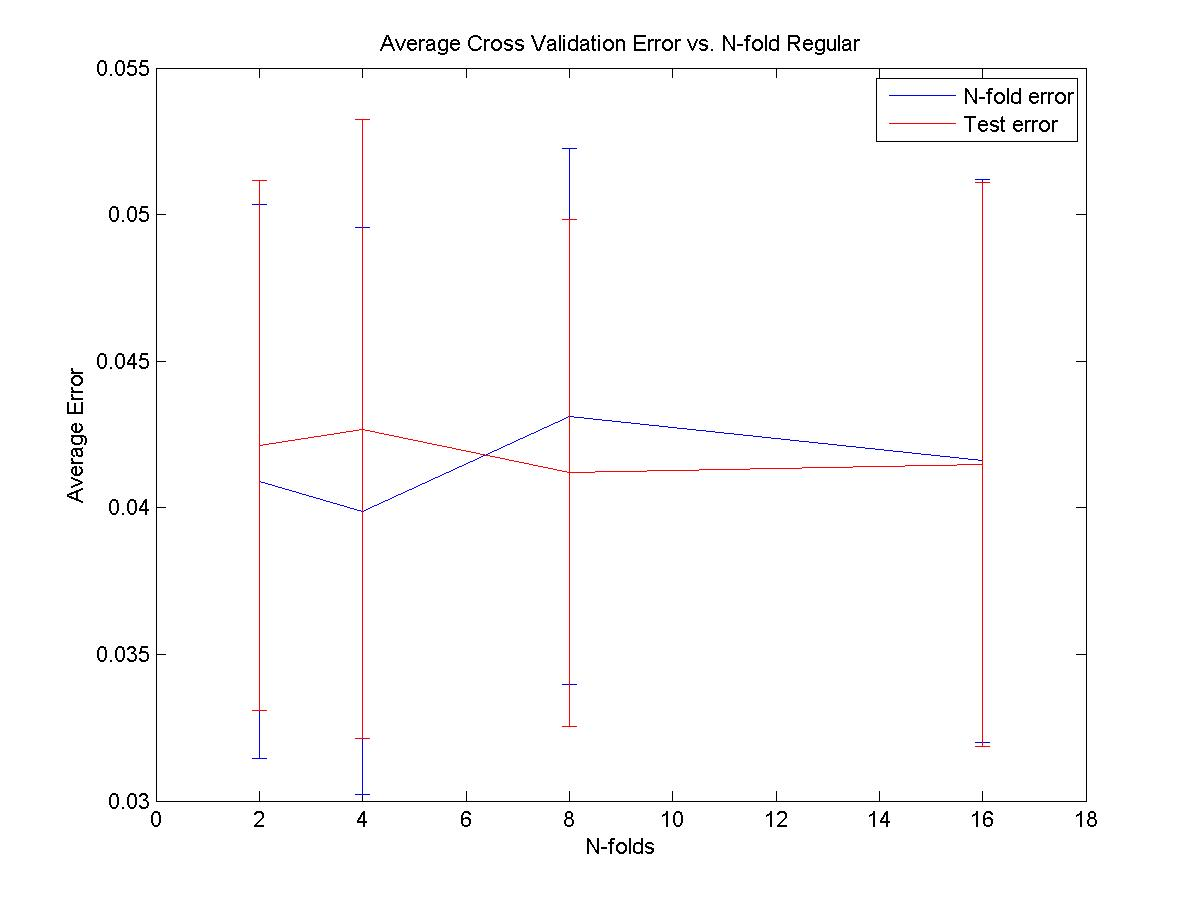
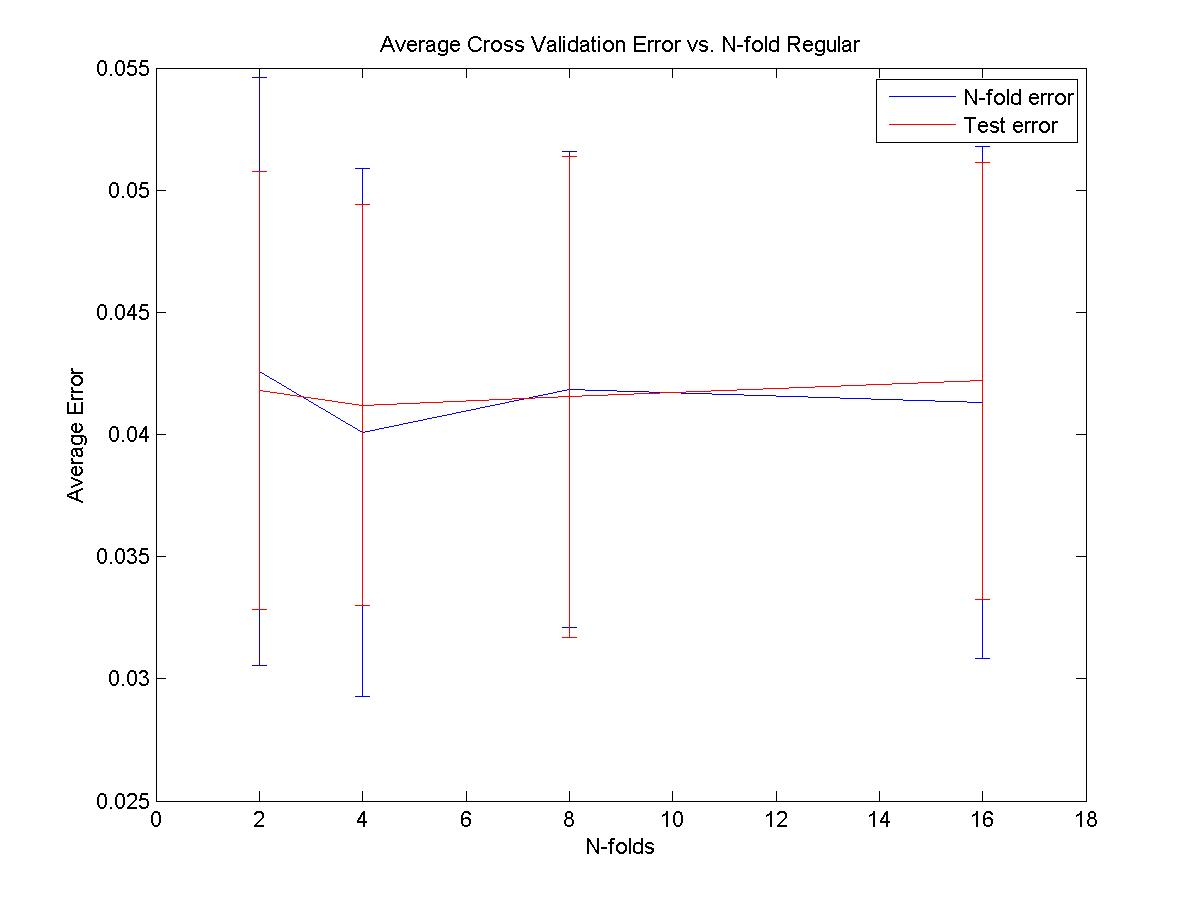
Finished 2

diff --git a/code/generate_knn_plots.m b/code/generate_knn_plots.m
@@ -6,78 +6,83 @@
 load('/data/breast-cancer-data-fixed.mat');
 
 %% 2.1
-% answers{1} = 'This is where your answer to 2.1 should go. Just as one long string in a cell array';
-% distFunc='l2';
-% xdata = X;
-% for z = 1:2
-%     for j = 1:4
-%         for i = 1:100
-%             [m,n] = size(xdata);
-%             order = randperm(m);
-%             ordertrain = order <401;
-%             ordertest = order >400;
-%             number = [1:m];
-% 
-%             vtest = number.*ordertest;
-%             vtest = vtest(vtest~=0);
-%             test = xdata(vtest,:);
-%             Ytest = Y(vtest,:);
-% 
-%             vtrain = number.*ordertrain;
-%             vtrain = vtrain(vtrain~=0);
-%             train = xdata(vtrain,:);
-%             Ytrain = Y(vtrain,:);
-% 
-%             part = make_xval_partition(400,2^j);
-%             nfold_error(i,j,z) = knn_xval_error(1,train,Ytrain,part,distFunc);
-% 
-%             testLabel = knn_test(1,train,Ytrain,test,distFunc);
-%             error = Ytest-testLabel;
-%             error = error~=0;
-%             r = sum(error);
-%             [m,n] = size(error);
-%             true_error(i,j,z) = r/m;
-%         end
-%     end
-%     xdata = X_noisy;
-% end
-% difference = nfold_error-true_error;
-% sum(difference)/100;
-% 
-% nfold_errs = nfold_error(:,:,1);
-% y = mean(nfold_errs);
-% e= std(nfold_errs);
-% x = [2 4 8 16];
-% errorbar(x,y,e);
-% hold on;
-% test_error = true_error(:,:,1);
-% y = mean(test_error);
-% e = std(test_error);
-% errorbar(x,y,e,'r');
-% xlabel('N-folds');
-% ylabel('Average Error');
-% title('Average Cross Validation Error vs. N-fold Regular');
-% legend('N-fold error','Test error');
-% print('-djpeg', 'plot_2.1.jpg');
-% hold off;
-% 
-% figure(2);
-% nfold_errs = nfold_error(:,:,2);
-% y = mean(nfold_errs);
-% e= std(nfold_errs);
-% x = [2 4 8 16];
-% errorbar(x,y,e);
-% hold on;
-% test_error = true_error(:,:,2);
-% y = mean(test_error);
-% e = std(test_error);
-% errorbar(x,y,e,'r');
-% xlabel('N-folds');
-% ylabel('Average Error');
-% title('Average Cross Validation Error vs. N-fold Noisy');
-% legend('N-fold error','Test error');
-% print('-djpeg', 'plot_2.1-noisy.jpg');
-% hold off; 
+answers{1} = 'For regular data, the difference in error across N is negligible, although minimums tend to occur at N=4. For the noisy data, we see that the N-fold error tends to steadily decrease with increasing N (minimums most often at N=16), while the test data error stays roughly the same. However, even the difference in error in noisy data across N is small, but can be significant. It is noteworthy that the magnitude of error for noisy data is nearly 6 times the error of the regular data for both N-fold and test data. Standard deviations remain roughly constant.';
+distFunc='l2';
+xdata = X;
+Npart = [2 4 8 16];
+nfold_error = zeros(100,4,2);
+true_error = zeros(100,4,2);
+for z = 1:2
+    for j = 1:4
+        for i = 1:100
+            [m,n] = size(xdata);
+            order = randperm(m);
+            ordertrain = order <401;
+            ordertest = order >400;
+            number = [1:m];
+
+            vtest = number.*ordertest;
+            vtest = vtest(vtest~=0);
+            test = xdata(vtest,:);
+            Ytest = Y(vtest,:);
+
+            vtrain = number.*ordertrain;
+            vtrain = vtrain(vtrain~=0);
+            train = xdata(vtrain,:);
+            Ytrain = Y(vtrain,:);
+
+            part = make_xval_partition(400,Npart(j));
+            if j<5
+                nfold_error(i,j,z) = knn_xval_error(1,train,Ytrain,part,distFunc);
+
+                testLabel = knn_test(1,train,Ytrain,test,distFunc);
+                testLabel = round(testLabel);
+                error = Ytest-testLabel;
+                error = error~=0;
+                r = sum(error);
+                [m,n] = size(error);
+                true_error(i,j,z) = r/m;
+            end
+        end
+    end
+    xdata = X_noisy;
+end
+
+nfold_errs = nfold_error(:,:,1);
+size(nfold_error);
+y = mean(nfold_errs);
+e= std(nfold_errs);
+x = Npart;
+errorbar(x,y,e);
+hold on;
+test_error = true_error(:,:,1);
+y = mean(test_error);
+e = std(test_error);
+errorbar(x,y,e,'r');
+xlabel('N-folds');
+ylabel('Average Error');
+title('Average Cross Validation Error vs. N-fold Regular');
+legend('N-fold error','Test error');
+%print('-djpeg', 'C:\Users\Akshay Chandrasekhar\Downloads\hw2_kit\hw2_kit\plot_2.1.jpg');
+hold off;
+
+figure(2);
+nfold_errs = nfold_error(:,:,2);
+y = mean(nfold_errs);
+e= std(nfold_errs);
+x = [2 4 8 16];
+errorbar(x,y,e);
+hold on;
+test_error = true_error(:,:,2);
+y = mean(test_error);
+e = std(test_error);
+errorbar(x,y,e,'r');
+xlabel('N-folds');
+ylabel('Average Error');
+title('Average Cross Validation Error vs. N-fold Noisy');
+legend('N-fold error','Test error');
+%print('-djpeg', 'C:\Users\Akshay Chandrasekhar\Downloads\hw2_kit\hw2_kit\plot_2.1-noisy.jpg');
+hold off; 
 % Plotting with error bars: first, arrange your data in a matrix as
 % follows:
 %
@@ -104,78 +109,127 @@ load('/data/breast-cancer-data-fixed.mat');
 % YOU MUST SAVE YOUR PLOTS TO THESE EXACT FILES.
 
 %% 2.2
-answers{2} = 'This is where your answer to 2.2 should go. Short and sweet is the key.';
+answers{2} = 'The best values appear to be {K=1,sigma=1} as these most often yield the lowest average error for both noisy and regular data. K data has a local minimum at K=8, while sigma data monotonically increases in error. The best average error is about 0.0425 and 0.25 for regular and noisy data respectively';
+% distFunc = 'l2';
+% k = [1,2,3,5,8,13,21,34];
+% sigma = [1,2,3,4,5,6,7,8,9,10,11,12];
+% xdata = X;
+% for z = 1:2
+%     for j = 1:12
+%         for i = 1:100
+%             [m,n] = size(xdata);
+%             order = randperm(m);
+%             ordertrain = order <401;
+%             ordertest = order >400;
+%             number = [1:m];
+% 
+%             vtest = number.*ordertest;
+%             vtest = vtest(vtest~=0);
+%             test = xdata(vtest,:);
+%             Ytest = Y(vtest,:);
+% 
+%             vtrain = number.*ordertrain;
+%             vtrain = vtrain(vtrain~=0);
+%             train = xdata(vtrain,:);
+%             Ytrain = Y(vtrain,:);
+% 
+%             part = make_xval_partition(400,10);
+%             if j<9
+% %                 nfold_error(i,j,z) = knn_xval_error(k(j),train,Ytrain,part,distFunc);
+% %                 testLabel = knn_test(k(j),train,Ytrain,test,distFunc);
+% %                 testLabel = round(testLabel);
+% %                 error = Ytest-testLabel;
+% %                 error = error~=0;
+% %                 r = sum(error);
+% %                 [m,n] = size(error);
+% %                 true_error(i,j,z) = r/m;
+%             end
+%             
+%             nfold_error2(i,j,z) = kernreg_xval_error(sigma(j), train, Ytrain,part,distFunc);
+%             testLabel2 = kernreg_test(sigma(j),train,Ytrain,test,distFunc);
+%             testLabel2 = round(testLabel2);
+%             error2 = Ytest-testLabel2;
+%             error2 = error2~=0;
+%             r2 = sum(error2);
+%             [o,p] = size(error2);
+%             true_error2(i,j,z) = r2/o;
+%         end
+%     end
+%     xdata = X_noisy;
+% end
 
-k = [1,2,3,5,8,13,21,34];
-xdata = X;
-for z = 1:2
-    for j = 1:8
-        for i = 1:100
-            [m,n] = size(xdata);
-            order = randperm(m);
-            ordertrain = order <401;
-            ordertest = order >400;
-            number = [1:m];
+% figure(3);
+% nfold_errs = nfold_error(:,:,1);
+% y = mean(nfold_errs);
+% e= std(nfold_errs);
+% x = k;
+% errorbar(x,y,e);
+% hold on;
+% test_error = true_error(:,:,1);
+% y = mean(test_error);
+% e = std(test_error);
+% errorbar(x,y,e,'r');
+% xlabel('K');
+% ylabel('Average Error');
+% title('Average Cross Validation Error vs. K Regular');
+% legend('N-fold error','Test error');
+% print('-djpeg', 'C:\Users\Akshay Chandrasekhar\Downloads\hw2_kit\hw2_kit\plot_2.2-k.jpg');
+% hold off;
+% 
+% figure(4);
+% nfold_errs = nfold_error(:,:,2);
+% y = mean(nfold_errs);
+% e= std(nfold_errs);
+% x = k;
+% errorbar(x,y,e);
+% hold on;
+% test_error = true_error(:,:,2);
+% y = mean(test_error);
+% e = std(test_error);
+% errorbar(x,y,e,'r');
+% xlabel('K');
+% ylabel('Average Error');
+% title('Average Cross Validation Error vs. K Noisy');
+% legend('N-fold error','Test error');
+% print('-djpeg', 'C:\Users\Akshay Chandrasekhar\Downloads\hw2_kit\hw2_kit\plot_2.2-k-noisy.jpg');
+% hold off;
 
-            vtest = number.*ordertest;
-            vtest = vtest(vtest~=0);
-            test = xdata(vtest,:);
-            Ytest = Y(vtest,:);
+% figure(5);
+% nfold_errs = nfold_error2(:,:,1);
+% y = mean(nfold_errs);
+% e= std(nfold_errs);
+% x = sigma;
+% errorbar(x,y,e);
+% hold on;
+% test_error = true_error2(:,:,1);
+% y = mean(test_error);
+% e = std(test_error);
+% errorbar(x,y,e,'r');
+% xlabel('Sigma');
+% ylabel('Average Error');
+% title('Average Cross Validation Error vs. Sigma Regular');
+% legend('N-fold error','Test error');
+% print('-djpeg','C:\Users\Akshay Chandrasekhar\Downloads\hw2_kit\hw2_kit\plot_2.2-sigma.jpg');
+% hold off;
+% 
+% figure(6);
+% nfold_errs = nfold_error2(:,:,2);
+% y = mean(nfold_errs);
+% e= std(nfold_errs);
+% x = sigma;
+% errorbar(x,y,e);
+% hold on;
+% test_error = true_error2(:,:,2);
+% y = mean(test_error);
+% e = std(test_error);
+% errorbar(x,y,e,'r');
+% xlabel('Sigma');
+% ylabel('Average Error');
+% title('Average Cross Validation Error vs. Sigma Noisy');
+% legend('N-fold error','Test error');
+% print('-djpeg','C:\Users\Akshay Chandrasekhar\Downloads\hw2_kit\hw2_kit\plot_2.2-sigma-noisy.jpg');
+% hold off;
 
-            vtrain = number.*ordertrain;
-            vtrain = vtrain(vtrain~=0);
-            train = xdata(vtrain,:);
-            Ytrain = Y(vtrain,:);
-
-            part = make_xval_partition(400,10);
-            nfold_error(i,j,z) = knn_xval_error(k(j),train,Ytrain,part,distFunc);
-
-            testLabel = knn_test(k(j),train,Ytrain,test,distFunc);
-            error = Ytest-testLabel;
-            error = error~=0;
-            r = sum(error);
-            [m,n] = size(error);
-            true_error(i,j,z) = r/m;
-        end
-    end
-    xdata = X_noisy;
-end
-
-figure(3);
-nfold_errs = nfold_error(:,:,1);
-y = mean(nfold_errs);
-e= std(nfold_errs);
-x = k;
-errorbar(x,y,e);
-hold on;
-test_error = true_error(:,:,1);
-y = mean(test_error);
-e = std(test_error);
-errorbar(x,y,e,'r');
-xlabel('K');
-ylabel('Average Error');
-title('Average Cross Validation Error vs. K Regular');
-legend('N-fold error','Test error');
-print('-djpeg', 'plot_2.2-k.jpg');
-hold off;
-
-figure(4);
-nfold_errs = nfold_error(:,:,2);
-y = mean(nfold_errs);
-e= std(nfold_errs);
-x = k;
-errorbar(x,y,e);
-hold on;
-test_error = true_error(:,:,2);
-y = mean(test_error);
-e = std(test_error);
-errorbar(x,y,e,'r');
-xlabel('K');
-ylabel('Average Error');
-title('Average Cross Validation Error vs. K Noisy');
-legend('N-fold error','Test error');
-print('-djpeg', 'plot_2.2-k-noisy.jpg');
-hold off;
 % Save your plots as follows:
 %
 %  noisy data, k-nn error vs. K --> plot_2.2-k-noisy.jpg
@@ -184,4 +238,4 @@ hold off;
 %  regular data, kernreg error vs. sigma --> plot_2.2-sigma.jpg
 
 %% Finishing up - make sure to run this before you submit.
-save('problem_2_answers.mat', 'answers');
+save('C:\Users\Akshay Chandrasekhar\Downloads\hw2_kit\hw2_kit\problem_2_answers.mat', 'answers');

diff --git a/code/kernreg_xval_error.m b/code/kernreg_xval_error.m
@@ -34,10 +34,11 @@ for i = 1:N
     Ytrain = Y(vtrain,:);
 
     testLabels = kernreg_test(sigma,train,Ytrain,test,distFunc);
+    testLabels = round(testLabels);
     difference = testLabels-Ytest;
     difference = difference~=0;
     j = sum(difference);
     [m,n] = size(difference);
     sumz(i) = j/m;
 end
-error =(sum(sumz))/N
+error =(sum(sumz))/N;

diff --git a/code/knn_xval_error.m b/code/knn_xval_error.m
@@ -33,6 +33,7 @@ for i = 1:N
     Ytrain = Y(vtrain,:);
 
     testLabels = knn_test(K,train,Ytrain,test,distFunc);
+    testLabels = round(testLabels);
     difference = testLabels-Ytest;
     difference = difference~=0;
     j = sum(difference);
